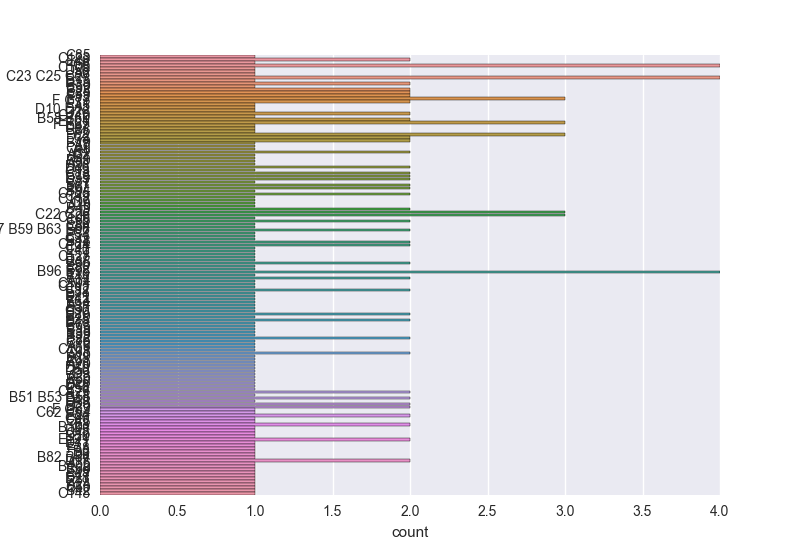
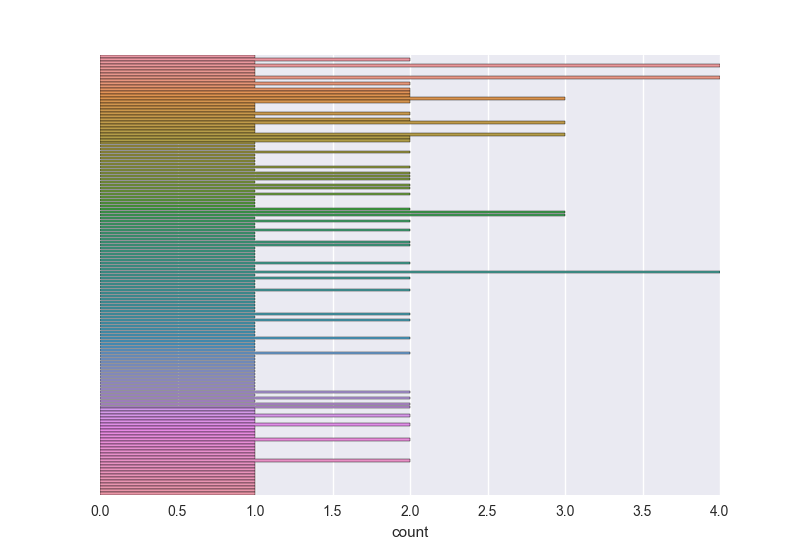
Formatting changes

Changed region(s): [[0.0, 0.0927, 0.125, 0.9273]]

diff --git a/dataexp_flask.py b/dataexp_flask.py
@@ -46,7 +46,6 @@ class DataExplorer:
 
     def get_stats_nonnumeric(self):
         data_count = list(map(lambda x: self.nonnumeric_data[x].count(), self.nonnumeric_fieldnames))
-        # data_missing = list(map(lambda x: self.nonnumeric_data[x].isnull().sum(), self.nonnumeric_fieldnames))
         data_missing = list(map(lambda x: str("%s (%.3f%%)" %
                             (self.nonnumeric_data[x].isnull().sum(),
                             100 * (self.nonnumeric_data[x].isnull().sum() / float(len(self.nonnumeric_data[x]))))),
@@ -101,6 +100,13 @@ class DataExplorer:
             # Generate the count plot
             feature_data = self.data[feature].dropna()
             countplot = sns.countplot(y=feature_data)
+
+            # TODO: Fix displaying too many points on y-axis
+            if (len(feature_data.unique()) / float(feature_data.count())) > 0.5:
+                print("remove y labels for %s" % feature)
+                countplot.set(ylabel='')
+                countplot.set(yticklabels=[])
+                countplot.yaxis.set_visible(False)
 
             # Save the histogram
             full_url = os.path.join(paths.EXAMPLES_FOLDER, str(feature + "_countplot.png"))
